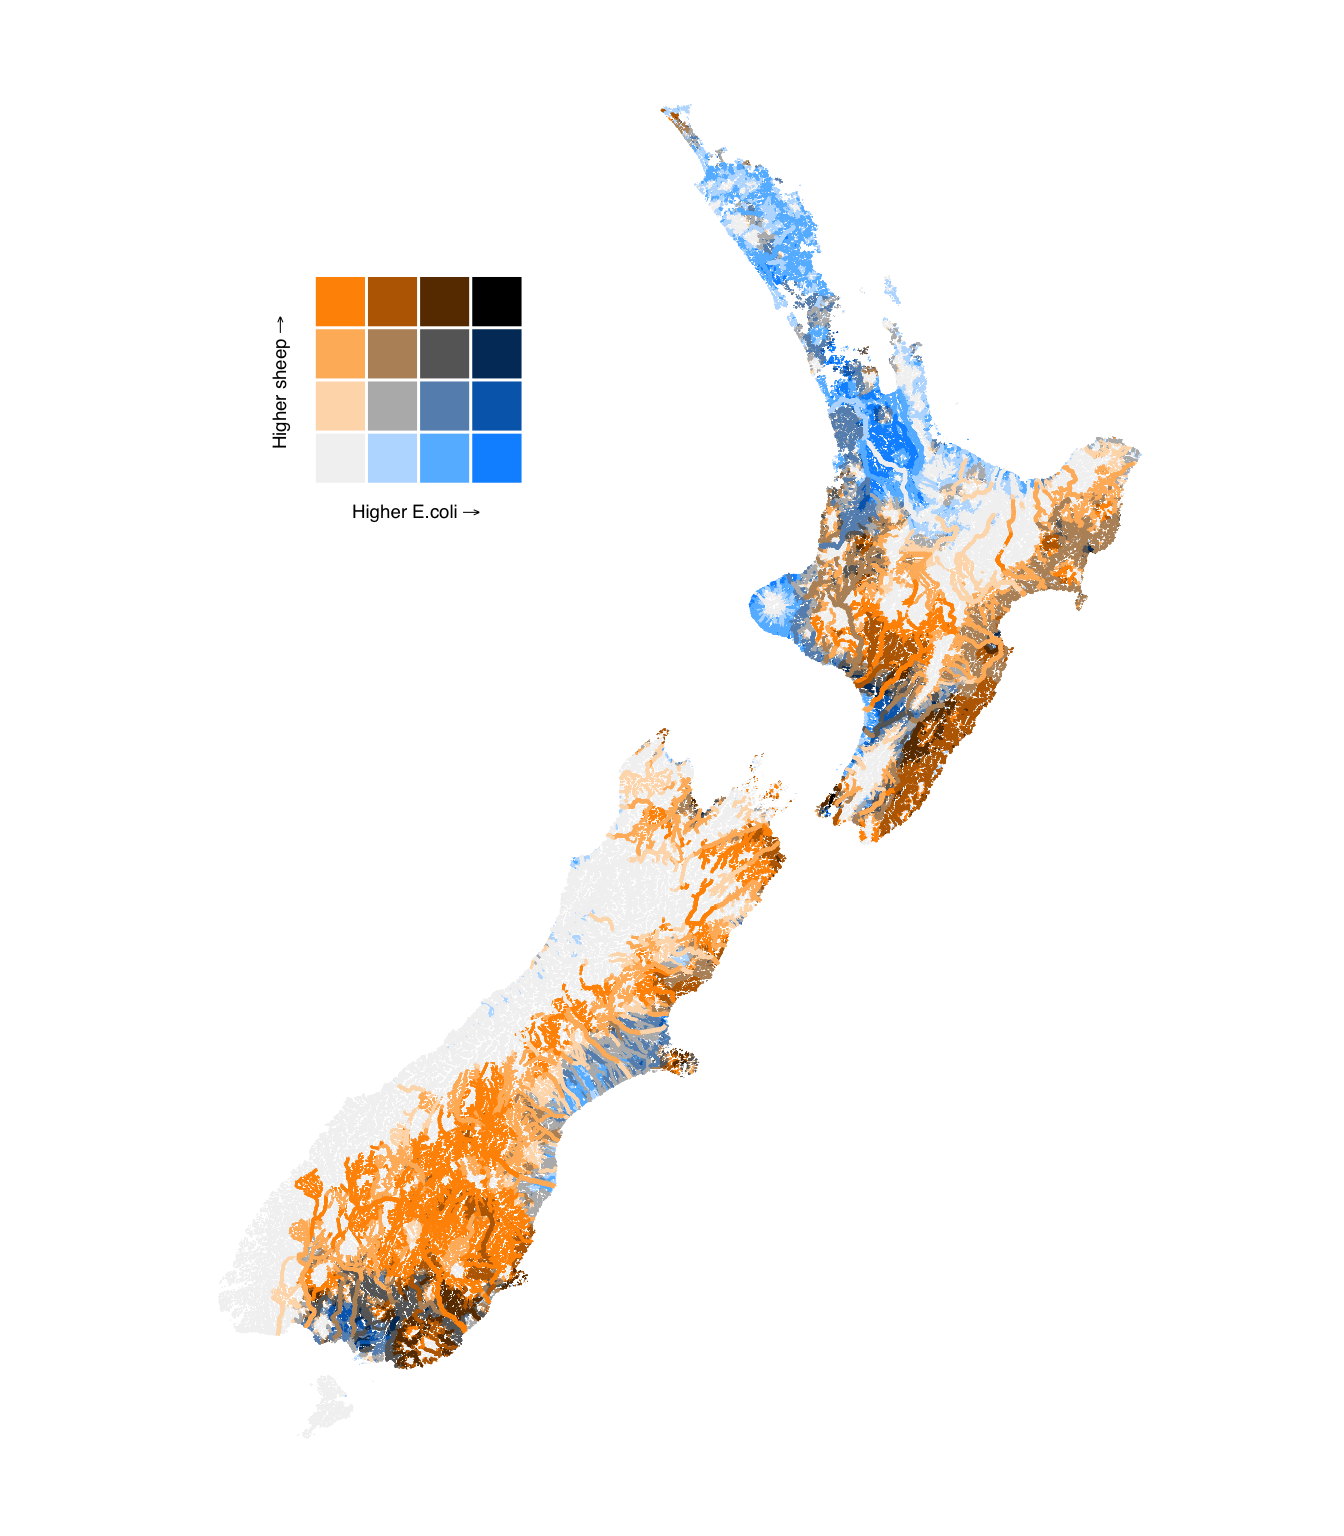
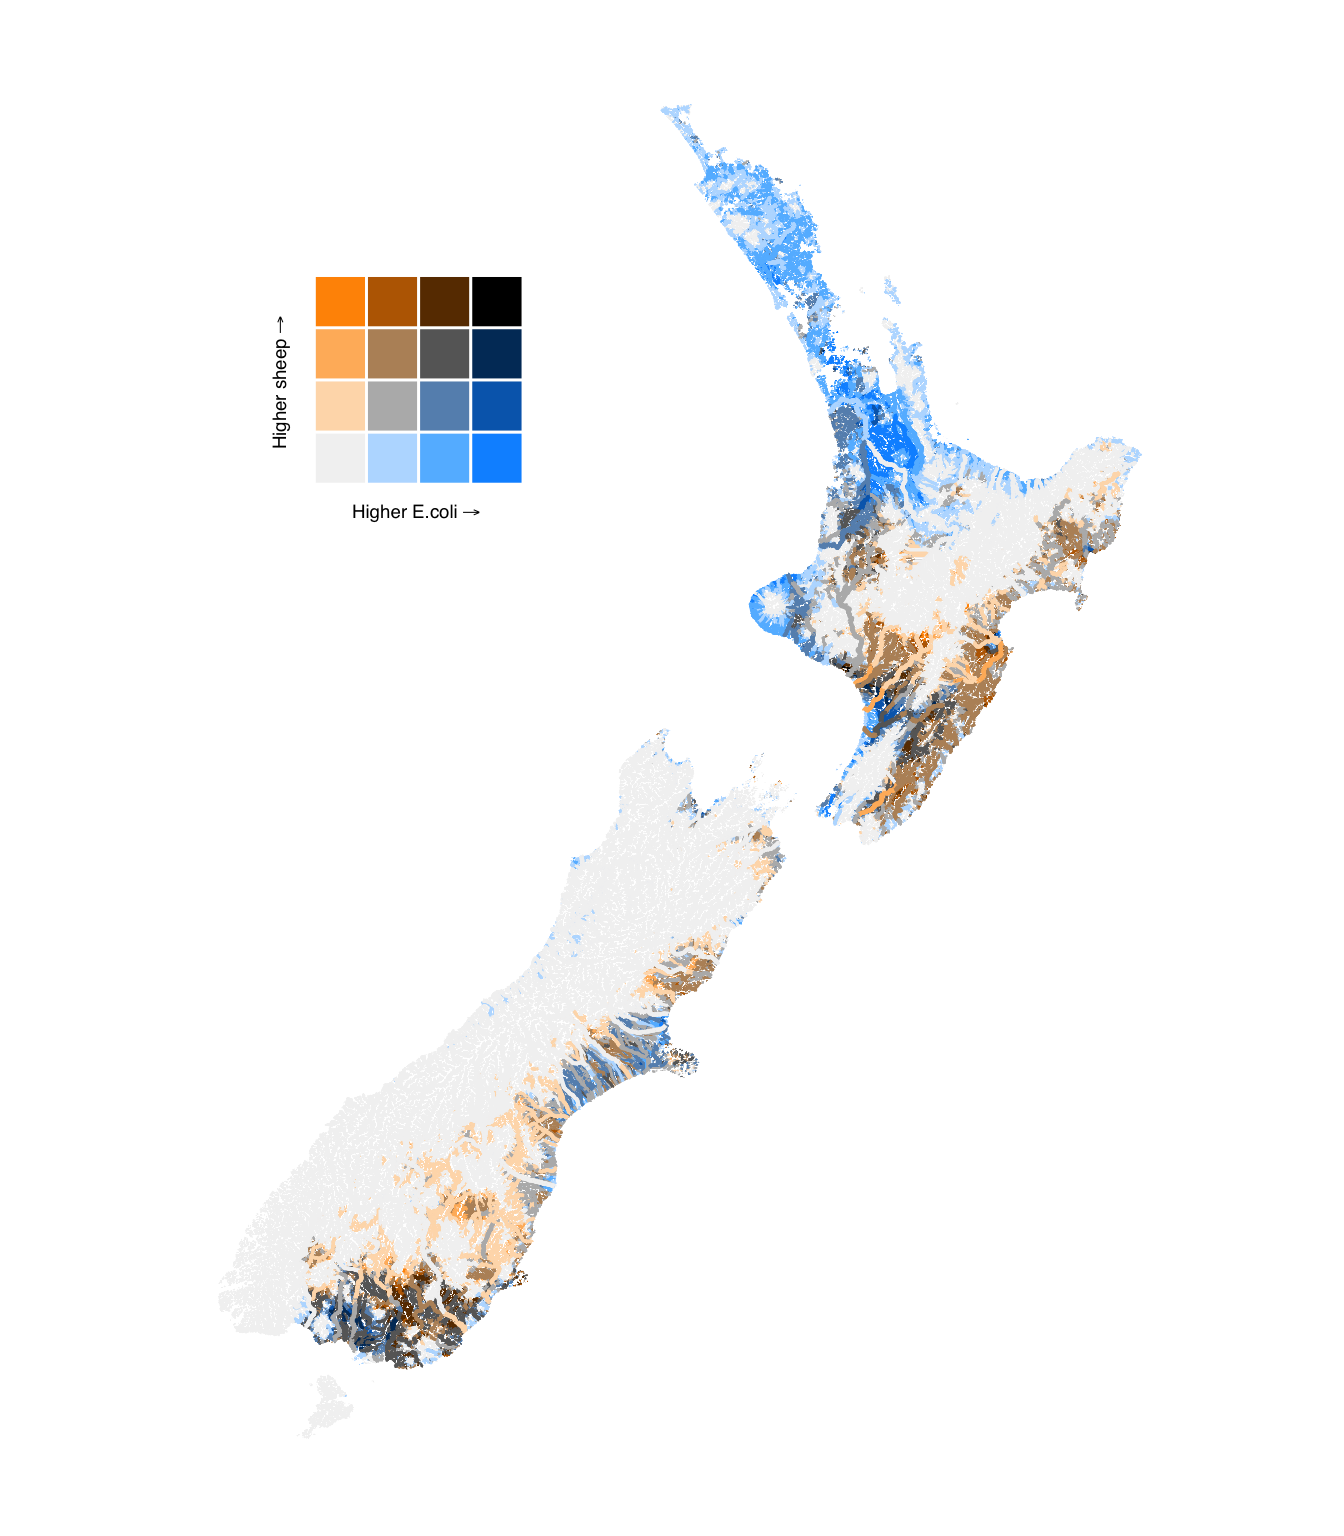
fixed error in sheep and dairy density variable

Changed region(s): [[0.1875, 0.1875, 0.8438, 0.9062], [0.5312, 0.125, 0.5938, 0.1875], [0.5, 0.0625, 0.5312, 0.0938]]

diff --git a/docs/posts/bivariate-water-quality/index.html b/docs/posts/bivariate-water-quality/index.html
@@ -307,9 +307,9 @@ background: #00000000;
 <p>For example, in NIWA’s recent random forest modelling of river water quality<a href="#fn3" class="footnote-ref" id="fnref3" role="doc-noteref"><sup>3</sup></a>, the top ten most important predictors of nitrate + nitrite-nitrogen (NNN) and <em>E. coli</em> were:</p>
 <table class="table-sm table-hover small caption-top table">
 <colgroup>
-<col style="width: 26%">
-<col style="width: 36%">
-<col style="width: 36%">
+<col style="width: 23%">
+<col style="width: 38%">
+<col style="width: 38%">
 </colgroup>
 <thead>
 <tr class="header">
@@ -326,12 +326,12 @@ background: #00000000;
 </tr>
 <tr class="even">
 <td>2</td>
-<td>Dairy density</td>
+<td>Proportion of total stock units that are dairy</td>
 <td>Rainfall variability</td>
 </tr>
 <tr class="odd">
 <td>3</td>
-<td>Beef density</td>
+<td>Proportion of total stock units that are Beef</td>
 <td>Stock density</td>
 </tr>
 <tr class="even">
@@ -500,7 +500,9 @@ Figure&nbsp;2: Bivariate choropleth map demonstrates the county wise distributio
 <span id="cb2-42"><a href="#cb2-42" aria-hidden="true" tabindex="-1"></a>  ) <span class="sc">|&gt;</span></span>
 <span id="cb2-43"><a href="#cb2-43" aria-hidden="true" tabindex="-1"></a>  <span class="fu">filter</span>(StreamOrder <span class="sc">&gt;</span> <span class="dv">1</span>) <span class="sc">|&gt;</span> </span>
 <span id="cb2-44"><a href="#cb2-44" aria-hidden="true" tabindex="-1"></a>  <span class="co"># filter extreme outliers </span></span>
-<span id="cb2-45"><a href="#cb2-45" aria-hidden="true" tabindex="-1"></a>  <span class="fu">filter</span>(SUDensityTotal_2017 <span class="sc">&lt;</span> <span class="dv">40</span>) <span class="ot">-&gt;</span> dat</span></code><button title="Copy to Clipboard" class="code-copy-button"><i class="bi"></i></button></pre></div>
+<span id="cb2-45"><a href="#cb2-45" aria-hidden="true" tabindex="-1"></a>  <span class="fu">filter</span>(SUDensityTotal_2017 <span class="sc">&lt;</span> <span class="dv">40</span>) <span class="sc">|&gt;</span> </span>
+<span id="cb2-46"><a href="#cb2-46" aria-hidden="true" tabindex="-1"></a>  <span class="fu">mutate</span>(<span class="at">sheep_density_2017 =</span> SUDensityTotal_2017 <span class="sc">*</span> PropSheep_2017,</span>
+<span id="cb2-47"><a href="#cb2-47" aria-hidden="true" tabindex="-1"></a>         <span class="at">dairy_density_2017 =</span> SUDensityTotal_2017 <span class="sc">*</span> PropDairy_2017) <span class="ot">-&gt;</span> dat</span></code><button title="Copy to Clipboard" class="code-copy-button"><i class="bi"></i></button></pre></div>
 </details>
 </div>
 </section>
@@ -742,8 +744,8 @@ Figure&nbsp;6: Bivariate maps of modelled median nitrogen levels in river segmen
 <p>Key findings:</p>
 <ul>
 <li>Waikato and Northland have low sheep density for relatively high <em>E. coli</em> levels.</li>
-<li>The Canterbury high country, and Otago have high sheep density for relatively low <em>E. coli</em> levels.</li>
-<li>The Canterbury plains have low sheep density for a relatively high <em>E. coli</em> levels.</li>
+<li>Hawke’s Bay down to eastern Wairarapa have high sheep density for relatively low <em>E. coli</em> levels.</li>
+<li>Parts of Southland have both high sheep density and high <em>E. coli</em> levels.</li>
 </ul>
 <div class="cell">
 <details class="code-fold">
@@ -751,7 +753,7 @@ Figure&nbsp;6: Bivariate maps of modelled median nitrogen levels in river segmen
 <div class="sourceCode cell-code" id="cb8"><pre class="sourceCode r code-with-copy"><code class="sourceCode r"><span id="cb8-1"><a href="#cb8-1" aria-hidden="true" tabindex="-1"></a><span class="fu">bi_class</span>(</span>
 <span id="cb8-2"><a href="#cb8-2" aria-hidden="true" tabindex="-1"></a>  dat,</span>
 <span id="cb8-3"><a href="#cb8-3" aria-hidden="true" tabindex="-1"></a>  <span class="at">x =</span> median_ecoli,</span>
-<span id="cb8-4"><a href="#cb8-4" aria-hidden="true" tabindex="-1"></a>  <span class="at">y =</span> PropSheep_2017,</span>
+<span id="cb8-4"><a href="#cb8-4" aria-hidden="true" tabindex="-1"></a>  <span class="at">y =</span> sheep_density_2017,</span>
 <span id="cb8-5"><a href="#cb8-5" aria-hidden="true" tabindex="-1"></a>  <span class="at">style =</span> <span class="st">"fisher"</span>,</span>
 <span id="cb8-6"><a href="#cb8-6" aria-hidden="true" tabindex="-1"></a>  <span class="at">dim =</span> <span class="dv">4</span></span>
 <span id="cb8-7"><a href="#cb8-7" aria-hidden="true" tabindex="-1"></a>) <span class="sc">|&gt;</span></span>
@@ -779,8 +781,8 @@ Figure&nbsp;7: Bivariate maps of modelled median <em>E. coli</em> levels in rive
 <div id="tabset-2-2" class="tab-pane" role="tabpanel" aria-labelledby="tabset-2-2-tab">
 <p>Key findings:</p>
 <ul>
-<li>Manawatū-Whanganui, Hawke’s Bay, Wairarapa, Marlborough, Canterbury high country, and Otago have high sheep density but relatively low levels of nitrogen.</li>
-<li>The Canterbury plains, and to a lesser extent Waikato, have low sheep density but relatively high levels of nitrogen.</li>
+<li>Manawatū-Whanganui, Hawke’s Bay, Wairarapa, Marlborough, and north Canterbury have high sheep density but relatively low levels of nitrogen.</li>
+<li>The Canterbury plains, Waikato, and Taranaki have low sheep density but relatively high levels of nitrogen.</li>
 </ul>
 <div class="cell">
 <details class="code-fold">
@@ -788,7 +790,7 @@ Figure&nbsp;7: Bivariate maps of modelled median <em>E. coli</em> levels in rive
 <div class="sourceCode cell-code" id="cb9"><pre class="sourceCode r code-with-copy"><code class="sourceCode r"><span id="cb9-1"><a href="#cb9-1" aria-hidden="true" tabindex="-1"></a><span class="fu">bi_class</span>(</span>
 <span id="cb9-2"><a href="#cb9-2" aria-hidden="true" tabindex="-1"></a>  dat,</span>
 <span id="cb9-3"><a href="#cb9-3" aria-hidden="true" tabindex="-1"></a>  <span class="at">x =</span> median_nitrogen,</span>
-<span id="cb9-4"><a href="#cb9-4" aria-hidden="true" tabindex="-1"></a>  <span class="at">y =</span> PropSheep_2017,</span>
+<span id="cb9-4"><a href="#cb9-4" aria-hidden="true" tabindex="-1"></a>  <span class="at">y =</span> sheep_density_2017,</span>
 <span id="cb9-5"><a href="#cb9-5" aria-hidden="true" tabindex="-1"></a>  <span class="at">style =</span> <span class="st">"fisher"</span>,</span>
 <span id="cb9-6"><a href="#cb9-6" aria-hidden="true" tabindex="-1"></a>  <span class="at">dim =</span> <span class="dv">4</span></span>
 <span id="cb9-7"><a href="#cb9-7" aria-hidden="true" tabindex="-1"></a>) <span class="sc">|&gt;</span></span>
@@ -825,9 +827,9 @@ Figure&nbsp;8: Bivariate maps of modelled median nitrogen levels in river segmen
 <div id="tabset-3-1" class="tab-pane active" role="tabpanel" aria-labelledby="tabset-3-1-tab">
 <p>Key findings:</p>
 <ul>
-<li>Some areas of Northland, Waikato, Taranaki, Manawatū-Whanganui, and Southland have both high levels of dairy density and <em>E. coli</em>.</li>
-<li>Canterbury has high levels of dairy density throughout, but lower levels of <em>E. coli</em> in some rivers, due to the large alpine-fed systems.</li>
-<li>Bay of Plenty and the West Coast have relatively lower <em>E. coli</em> levels for a given dairy density.</li>
+<li>Canterbury, Waikato, Taranaki, and some areas of Southland have both high levels of dairy density and <em>E. coli</em>.</li>
+<li>Canterbury has high levels of dairy density throughout the plain-fed rivers, but lower levels of <em>E. coli</em> in some rivers, due to the large alpine-fed systems.</li>
+<li>Areas of the North Island outside of Waikato and Taranaki have relatively lower <em>E. coli</em> levels for a given dairy density.</li>
 </ul>
 <div class="cell preview-image">
 <details class="code-fold">
@@ -836,7 +838,7 @@ Figure&nbsp;8: Bivariate maps of modelled median nitrogen levels in river segmen
 <span id="cb10-2"><a href="#cb10-2" aria-hidden="true" tabindex="-1"></a><span class="fu">bi_class</span>(</span>
 <span id="cb10-3"><a href="#cb10-3" aria-hidden="true" tabindex="-1"></a>  dat,</span>
 <span id="cb10-4"><a href="#cb10-4" aria-hidden="true" tabindex="-1"></a>  <span class="at">x =</span> median_ecoli,</span>
-<span id="cb10-5"><a href="#cb10-5" aria-hidden="true" tabindex="-1"></a>  <span class="at">y =</span> PropDairy_2017,</span>
+<span id="cb10-5"><a href="#cb10-5" aria-hidden="true" tabindex="-1"></a>  <span class="at">y =</span> dairy_density_2017,</span>
 <span id="cb10-6"><a href="#cb10-6" aria-hidden="true" tabindex="-1"></a>  <span class="at">style =</span> <span class="st">"fisher"</span>,</span>
 <span id="cb10-7"><a href="#cb10-7" aria-hidden="true" tabindex="-1"></a>  <span class="at">dim =</span> <span class="dv">4</span></span>
 <span id="cb10-8"><a href="#cb10-8" aria-hidden="true" tabindex="-1"></a>) <span class="sc">|&gt;</span></span>
@@ -864,9 +866,9 @@ Figure&nbsp;9: Bivariate maps of modelled median <em>E. coli</em> levels in rive
 <div id="tabset-3-2" class="tab-pane" role="tabpanel" aria-labelledby="tabset-3-2-tab">
 <p>Key findings:</p>
 <ul>
-<li>Canterbury, Southland, and the lower Waikato have both high dairy density and nitrogen levels.</li>
-<li>Hawke’s Bay and eastern Wairarapa have medium level nitrogen levels despite having low dairy density.<br>
-<br>
+<li>Canterbury, and Southland have both high dairy density and nitrogen levels.</li>
+<li>Waikato and Taranaki have slightly lower nitrogen levels despite dairy densities similar to Canterbury and Southland.</li>
+<li>Hawke’s Bay and eastern Wairarapa have relatively high nitrogen levels but lower dairy density.<br>
 <br>
 </li>
 </ul>
@@ -876,7 +878,7 @@ Figure&nbsp;9: Bivariate maps of modelled median <em>E. coli</em> levels in rive
 <div class="sourceCode cell-code" id="cb11"><pre class="sourceCode r code-with-copy"><code class="sourceCode r"><span id="cb11-1"><a href="#cb11-1" aria-hidden="true" tabindex="-1"></a><span class="fu">bi_class</span>(</span>
 <span id="cb11-2"><a href="#cb11-2" aria-hidden="true" tabindex="-1"></a>  dat,</span>
 <span id="cb11-3"><a href="#cb11-3" aria-hidden="true" tabindex="-1"></a>  <span class="at">x =</span> median_nitrogen,</span>
-<span id="cb11-4"><a href="#cb11-4" aria-hidden="true" tabindex="-1"></a>  <span class="at">y =</span> PropDairy_2017,</span>
+<span id="cb11-4"><a href="#cb11-4" aria-hidden="true" tabindex="-1"></a>  <span class="at">y =</span> dairy_density_2017,</span>
 <span id="cb11-5"><a href="#cb11-5" aria-hidden="true" tabindex="-1"></a>  <span class="at">style =</span> <span class="st">"fisher"</span>,</span>
 <span id="cb11-6"><a href="#cb11-6" aria-hidden="true" tabindex="-1"></a>  <span class="at">dim =</span> <span class="dv">4</span></span>
 <span id="cb11-7"><a href="#cb11-7" aria-hidden="true" tabindex="-1"></a>) <span class="sc">|&gt;</span></span>
@@ -1374,7 +1376,7 @@ window.document.addEventListener("DOMContentLoaded", function (event) {
 });
 </script>
 </div> <!-- /content -->
-<script>var lightboxQuarto = GLightbox({"selector":".lightbox","descPosition":"bottom","loop":false,"closeEffect":"zoom","openEffect":"zoom"});
+<script>var lightboxQuarto = GLightbox({"loop":false,"descPosition":"bottom","selector":".lightbox","closeEffect":"zoom","openEffect":"zoom"});
 (function() {
   let previousOnload = window.onload;
   window.onload = () => {

diff --git a/docs/blog.html b/docs/blog.html
@@ -249,7 +249,7 @@ window.Quarto = {
     </div>
 </div>
 <div class="list quarto-listing-default">
-<div class="quarto-post image-right" data-index="0" data-categories="code,water quality,maps" data-listing-date-sort="1721044800000" data-listing-file-modified-sort="1721002243917" data-listing-date-modified-sort="NaN" data-listing-reading-time-sort="17" data-listing-word-count-sort="3269">
+<div class="quarto-post image-right" data-index="0" data-categories="code,water quality,maps" data-listing-date-sort="1721044800000" data-listing-file-modified-sort="1721027051577" data-listing-date-modified-sort="NaN" data-listing-reading-time-sort="17" data-listing-word-count-sort="3400">
 <div class="thumbnail">
 <p><a href="./posts/bivariate-water-quality/index.html" class="no-external"></a></p><a href="./posts/bivariate-water-quality/index.html" class="no-external">
 <p class="card-img-top"><img src="posts/bivariate-water-quality/index_files/figure-html/fig-bi-maps-dairy-ecoli-1.png"  class="thumbnail-image card-img"/></p>

diff --git a/docs/posts/3d-population-grid/index.html b/docs/posts/3d-population-grid/index.html
@@ -899,7 +899,7 @@ window.document.addEventListener("DOMContentLoaded", function (event) {
 });
 </script>
 </div> <!-- /content -->
-<script>var lightboxQuarto = GLightbox({"closeEffect":"zoom","openEffect":"zoom","loop":false,"selector":".lightbox","descPosition":"bottom"});
+<script>var lightboxQuarto = GLightbox({"descPosition":"bottom","closeEffect":"zoom","loop":false,"selector":".lightbox","openEffect":"zoom"});
 (function() {
   let previousOnload = window.onload;
   window.onload = () => {

diff --git a/docs/posts/climate-projections/index.html b/docs/posts/climate-projections/index.html
@@ -911,7 +911,7 @@ window.document.addEventListener("DOMContentLoaded", function (event) {
 });
 </script>
 </div> <!-- /content -->
-<script>var lightboxQuarto = GLightbox({"openEffect":"zoom","loop":false,"closeEffect":"zoom","descPosition":"bottom","selector":".lightbox"});
+<script>var lightboxQuarto = GLightbox({"closeEffect":"zoom","selector":".lightbox","openEffect":"zoom","loop":false,"descPosition":"bottom"});
 (function() {
   let previousOnload = window.onload;
   window.onload = () => {

diff --git a/docs/posts/population-grid/index.html b/docs/posts/population-grid/index.html
@@ -798,7 +798,7 @@ window.document.addEventListener("DOMContentLoaded", function (event) {
 });
 </script>
 </div> <!-- /content -->
-<script>var lightboxQuarto = GLightbox({"selector":".lightbox","descPosition":"bottom","openEffect":"zoom","closeEffect":"zoom","loop":false});
+<script>var lightboxQuarto = GLightbox({"loop":false,"selector":".lightbox","descPosition":"bottom","closeEffect":"zoom","openEffect":"zoom"});
 (function() {
   let previousOnload = window.onload;
   window.onload = () => {

diff --git a/docs/posts/remote-huts/index.html b/docs/posts/remote-huts/index.html
@@ -943,7 +943,7 @@ window.document.addEventListener("DOMContentLoaded", function (event) {
 });
 </script>
 </div> <!-- /content -->
-<script>var lightboxQuarto = GLightbox({"selector":".lightbox","closeEffect":"zoom","descPosition":"bottom","openEffect":"zoom","loop":false});
+<script>var lightboxQuarto = GLightbox({"closeEffect":"zoom","selector":".lightbox","openEffect":"zoom","descPosition":"bottom","loop":false});
 (function() {
   let previousOnload = window.onload;
   window.onload = () => {
